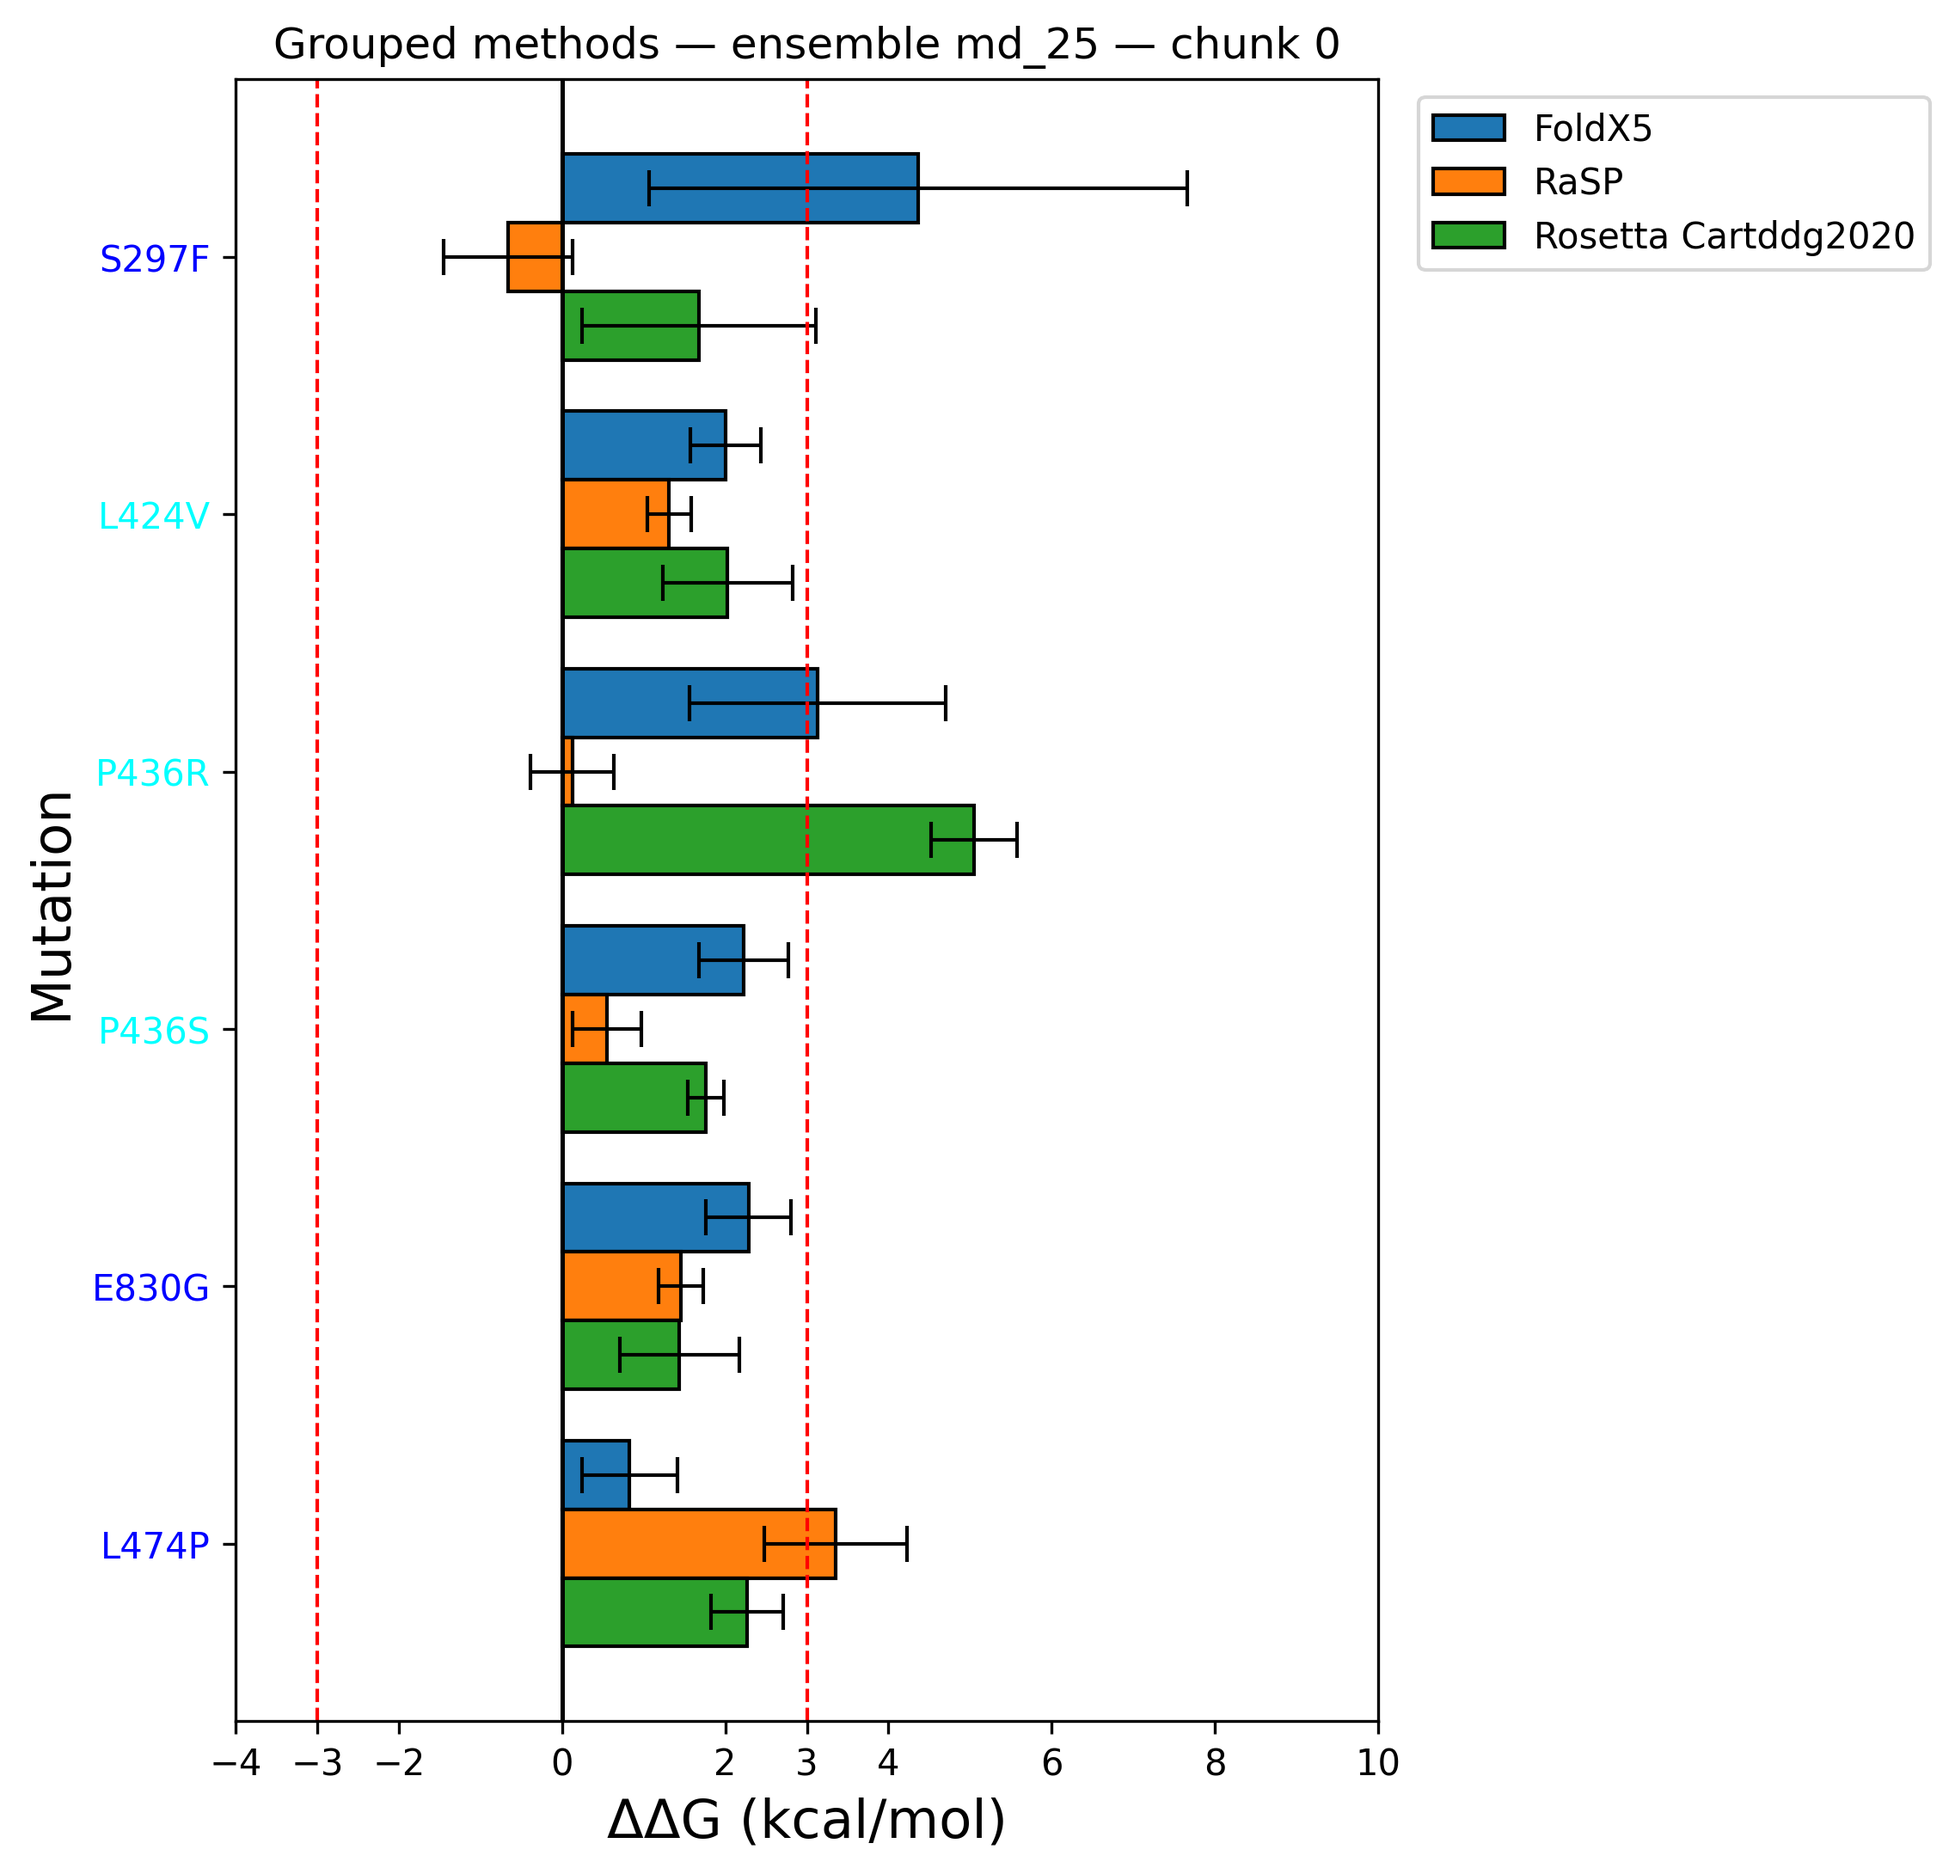
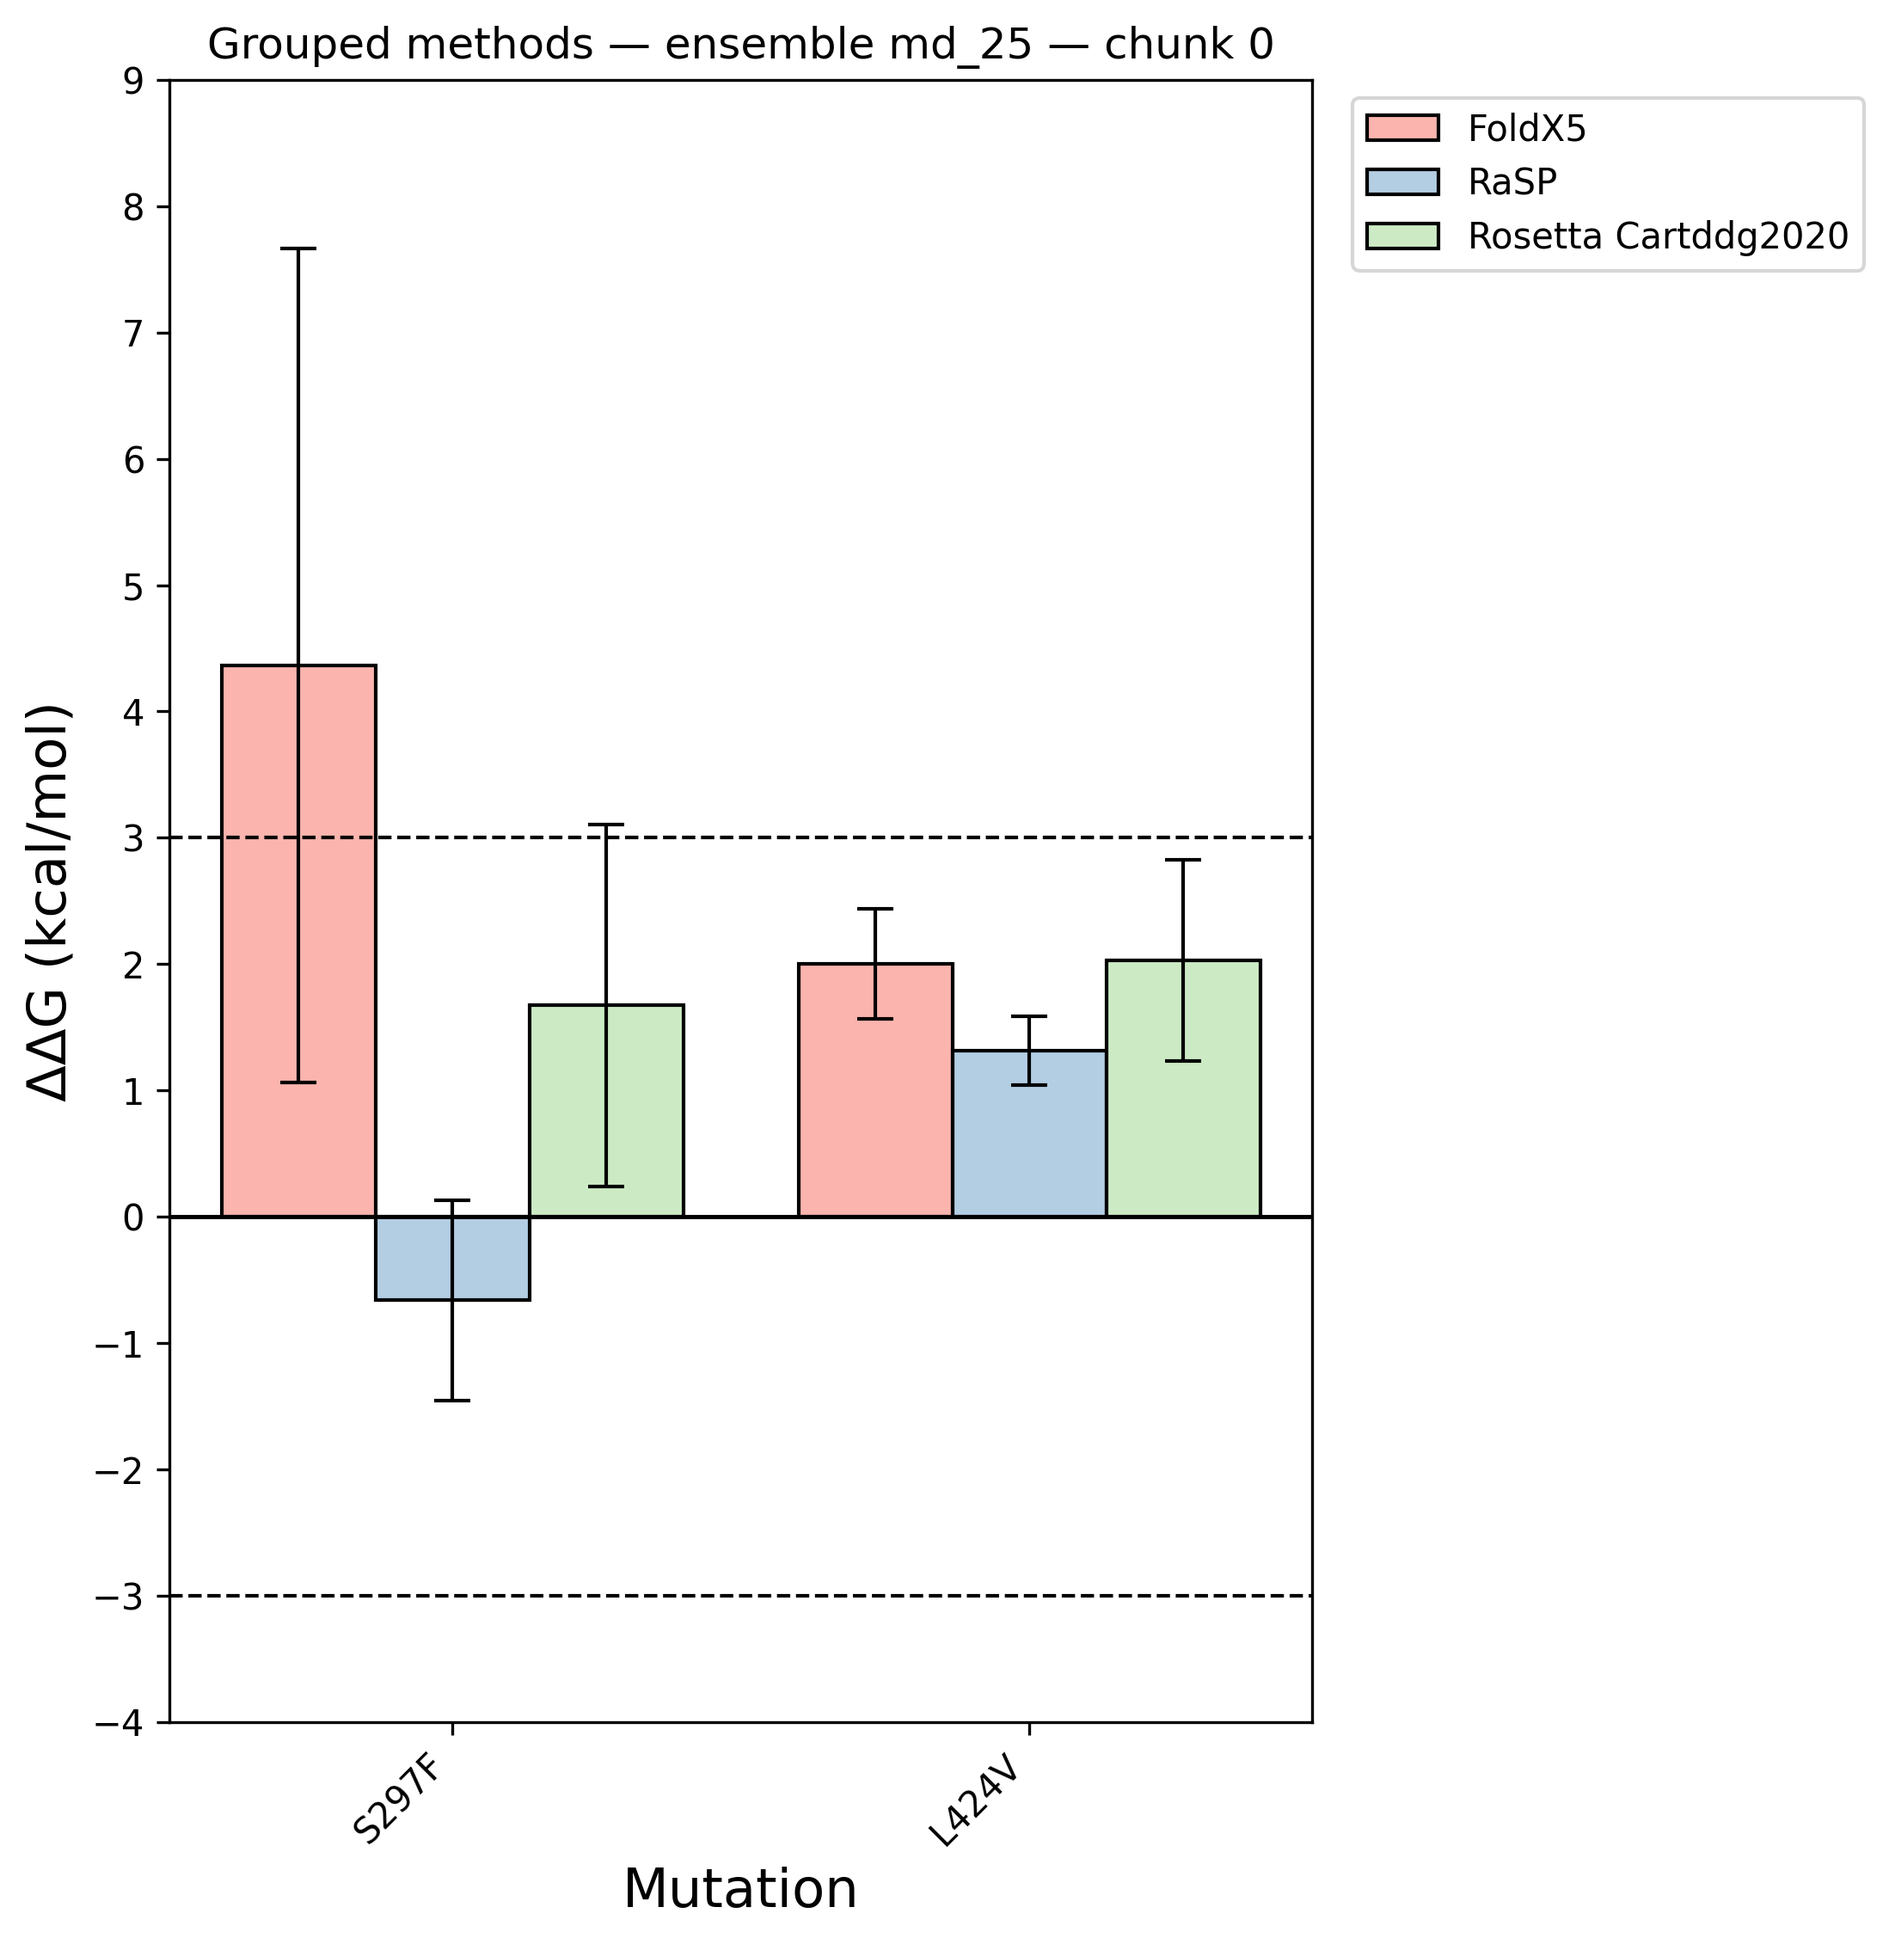
Palette changing

diff --git a/stability_barplot/stability_barplot.py b/stability_barplot/stability_barplot.py
@@ -165,9 +165,54 @@ def filter_destabilizing(df, ensemble, classification_cols, target_methods):
 # ============================================================
 # PLOTTING FUNCTIONS
 # ============================================================
-def get_palette_color(cmap_name, index):
+# UPDATED: make colors well-separated across the chosen palette
+CATEGORICAL_CMAPS = {
+    "tab10", "tab10_r",
+    "tab20", "tab20_r",
+    "tab20b", "tab20b_r",
+    "tab20c", "tab20c_r",
+    "Set1", "Set1_r",
+    "Set2", "Set2_r",
+    "Set3", "Set3_r",
+    "Pastel1", "Pastel1_r",
+    "Pastel2", "Pastel2_r",
+    "Dark2", "Dark2_r",
+    "Accent", "Accent_r",
+    "Paired", "Paired_r",
+}
+
+def get_palette_color(cmap_name, index, n_slots=4):
+    """
+    Return a visually distinct color from the given colormap.
+
+    - If cmap_name is categorical (tab10, Set1, Dark2, etc.), we use its
+      discrete color list so colors look natural and balanced.
+    - Otherwise, we treat it as a continuous/gradient map and sample
+      *evenly inside* [0.15, 0.85] to avoid extreme ends that are too
+      bright or too dark (less 'puñetazo en el ojo').
+    """
     cmap = cm.get_cmap(cmap_name)
-    return cmap(index)
+
+    # === CASE 1: CATEGORICAL COLORMAP ===  # UPDATED
+    if cmap_name in CATEGORICAL_CMAPS and hasattr(cmap, "colors"):
+        colors = cmap.colors
+        if len(colors) == 0:
+            # fall back to continuous behaviour if something is weird
+            pass
+        else:
+            return colors[index % len(colors)]
+
+    # === CASE 2: CONTINUOUS / GRADIENT COLORMAP ===  # UPDATED
+    # sample within [low, high] to avoid extreme ends of the gradient
+    low, high = 0.15, 0.85
+
+    if n_slots is None or n_slots <= 1:
+        pos = 0.5  # middle of the colormap
+    else:
+        pos = low + (high - low) * (index / float(max(1, n_slots - 1)))
+
+    return cmap(pos)
+
     
 
 def plot_chunk(chunk, method, ensemble, ddg_col, std_col, args, idx):
@@ -219,9 +264,9 @@ def plot_chunk(chunk, method, ensemble, ddg_col, std_col, args, idx):
         ax.barh(labels, ddg, xerr=std, color=bar_color, edgecolor="black",linewidth=1.0, **style)
         ax.axvline(0, color="black", linewidth=1.2)
         if has_pos:
-            ax.axvline(3, color="red", linestyle="--", linewidth=1.0)   # UPDATED: +3 threshold
+            ax.axvline(3, color="black", linestyle="--", linewidth=1.0)   # UPDATED: +3 threshold
         if has_neg:
-            ax.axvline(-3, color="red", linestyle="--", linewidth=1.0)  # UPDATED: -3 threshold
+            ax.axvline(-3, color="black", linestyle="--", linewidth=1.0)  # UPDATED: -3 threshold
 
         # ensure the ±3 lines and ticks are visible when they exist  # UPDATED
         xmin, xmax = ax.get_xlim()
@@ -237,6 +282,7 @@ def plot_chunk(chunk, method, ensemble, ddg_col, std_col, args, idx):
         if has_neg and -3 not in xticks:
             xticks.append(-3)
         xticks = sorted(xticks)
+        xticks = np.arange(np.floor(xmin), np.ceil(xmax) + 1, 1)
         ax.set_xticks(xticks)
 
         ax.invert_yaxis()
@@ -262,9 +308,9 @@ def plot_chunk(chunk, method, ensemble, ddg_col, std_col, args, idx):
     ax.axhline(0, color="black", linewidth=1.2)
 
     if has_pos:
-        ax.axhline(3, color="red", linestyle="--", linewidth=1.0)   # UPDATED: +3 threshold
+        ax.axhline(3, color="black", linestyle="--", linewidth=1.0)   # UPDATED: +3 threshold
     if has_neg:
-        ax.axhline(-3, color="red", linestyle="--", linewidth=1.0)  # UPDATED: -3 threshold
+        ax.axhline(-3, color="black", linestyle="--", linewidth=1.0)  # UPDATED: -3 threshold
 
     # ensure the ±3 lines and ticks are visible when they exist  # UPDATED
     ymin, ymax = ax.get_ylim()
@@ -280,6 +326,7 @@ def plot_chunk(chunk, method, ensemble, ddg_col, std_col, args, idx):
     if has_neg and -3 not in yticks:
         yticks.append(-3)
     yticks = sorted(yticks)
+    yticks = np.arange(np.floor(ymin), np.ceil(ymax) + 1, 1)
     ax.set_yticks(yticks)
 
     ax.set_ylabel("ΔΔG (kcal/mol)", fontsize=args.y_title)
@@ -322,10 +369,11 @@ def plot_grouped_methods(chunk, parsed, ensemble, args, idx, specific_cols=None)
             if ensemble in ensembles:
                 method_list.append(method)
 
-    # Assign dynamically colors
+    n_methods = len(method_list)
+
     color_map = {
-        method_list[i]: get_palette_color(args.palette, i)
-        for i in range(len(method_list))
+        method_list[i]: get_palette_color(args.palette, i, n_slots=n_methods)  # UPDATED
+        for i in range(n_methods)
     }
 
     # -------------------------------------------
@@ -421,9 +469,9 @@ def plot_grouped_methods(chunk, parsed, ensemble, args, idx, specific_cols=None)
         ax.axvline(0, color="black", linewidth=1.2)
 
         if has_pos:
-            ax.axvline(3, color="red", linestyle="--", linewidth=1.0)
+            ax.axvline(3, color="black", linestyle="--", linewidth=1.0)
         if has_neg:
-            ax.axvline(-3, color="red", linestyle="--", linewidth=1.0) 
+            ax.axvline(-3, color="black", linestyle="--", linewidth=1.0) 
         
         xmin, xmax = ax.get_xlim()
         if has_pos:
@@ -438,6 +486,7 @@ def plot_grouped_methods(chunk, parsed, ensemble, args, idx, specific_cols=None)
         if has_neg and -3 not in xticks:
             xticks.append(-3)
         xticks = sorted(xticks)
+        xticks = np.arange(np.floor(xmin), np.ceil(xmax) + 1, 1)
         ax.set_xticks(xticks)
     else:
         ax.set_xticks(x)
@@ -456,9 +505,9 @@ def plot_grouped_methods(chunk, parsed, ensemble, args, idx, specific_cols=None)
         ax.axhline(0, color="black", linewidth=1.2)
 
         if has_pos:
-            ax.axhline(3, color="red", linestyle="--", linewidth=1.0)
+            ax.axhline(3, color="black", linestyle="--", linewidth=1.0)
         if has_neg:
-            ax.axhline(-3, color="red", linestyle="--", linewidth=1.0)
+            ax.axhline(-3, color="black", linestyle="--", linewidth=1.0)
         ymin, ymax = ax.get_ylim()
         if has_pos:
             ymax = max(ymax, 3)
@@ -472,6 +521,7 @@ def plot_grouped_methods(chunk, parsed, ensemble, args, idx, specific_cols=None)
         if has_neg and -3 not in yticks:
             yticks.append(-3)
         yticks = sorted(yticks)
+        yticks = np.arange(np.floor(ymin), np.ceil(ymax) + 1, 1)
         ax.set_yticks(yticks)
 
     ax.set_title(f"Grouped methods — ensemble {ensemble} — chunk {idx}")
